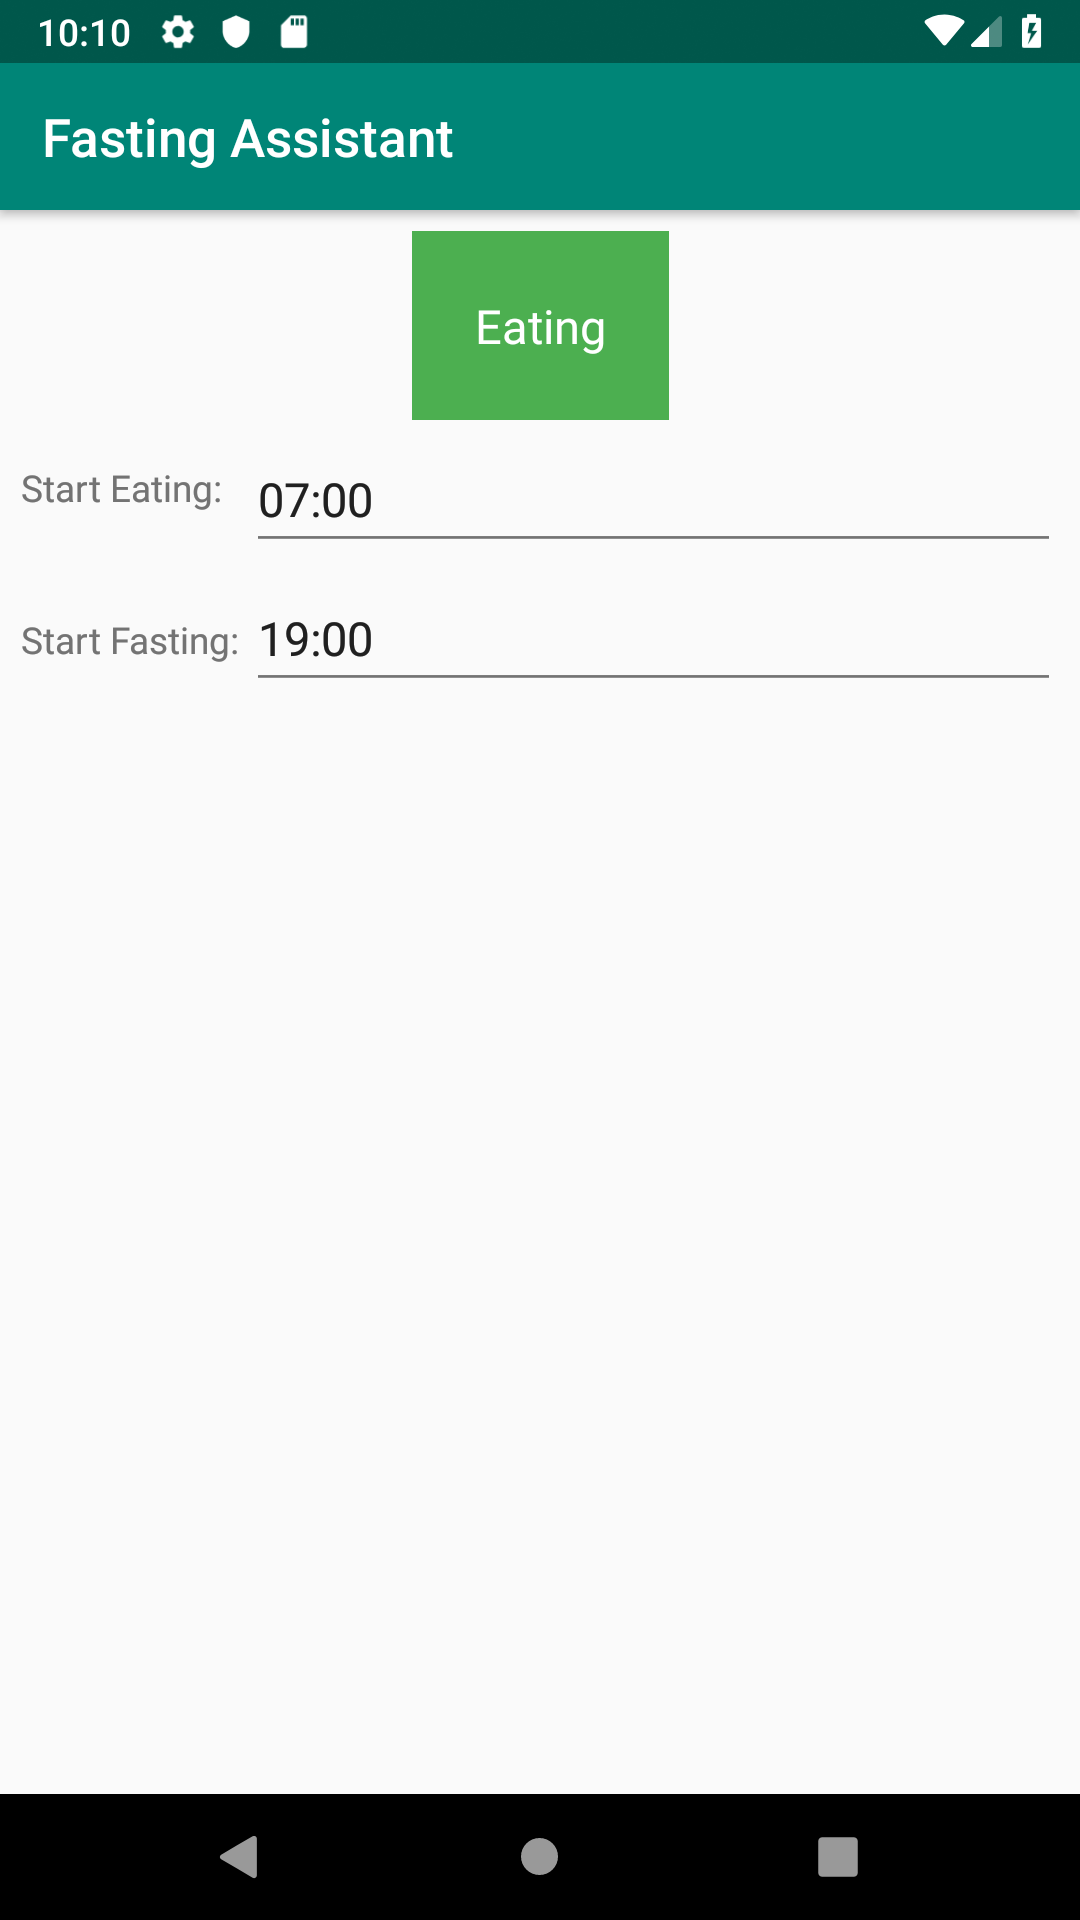
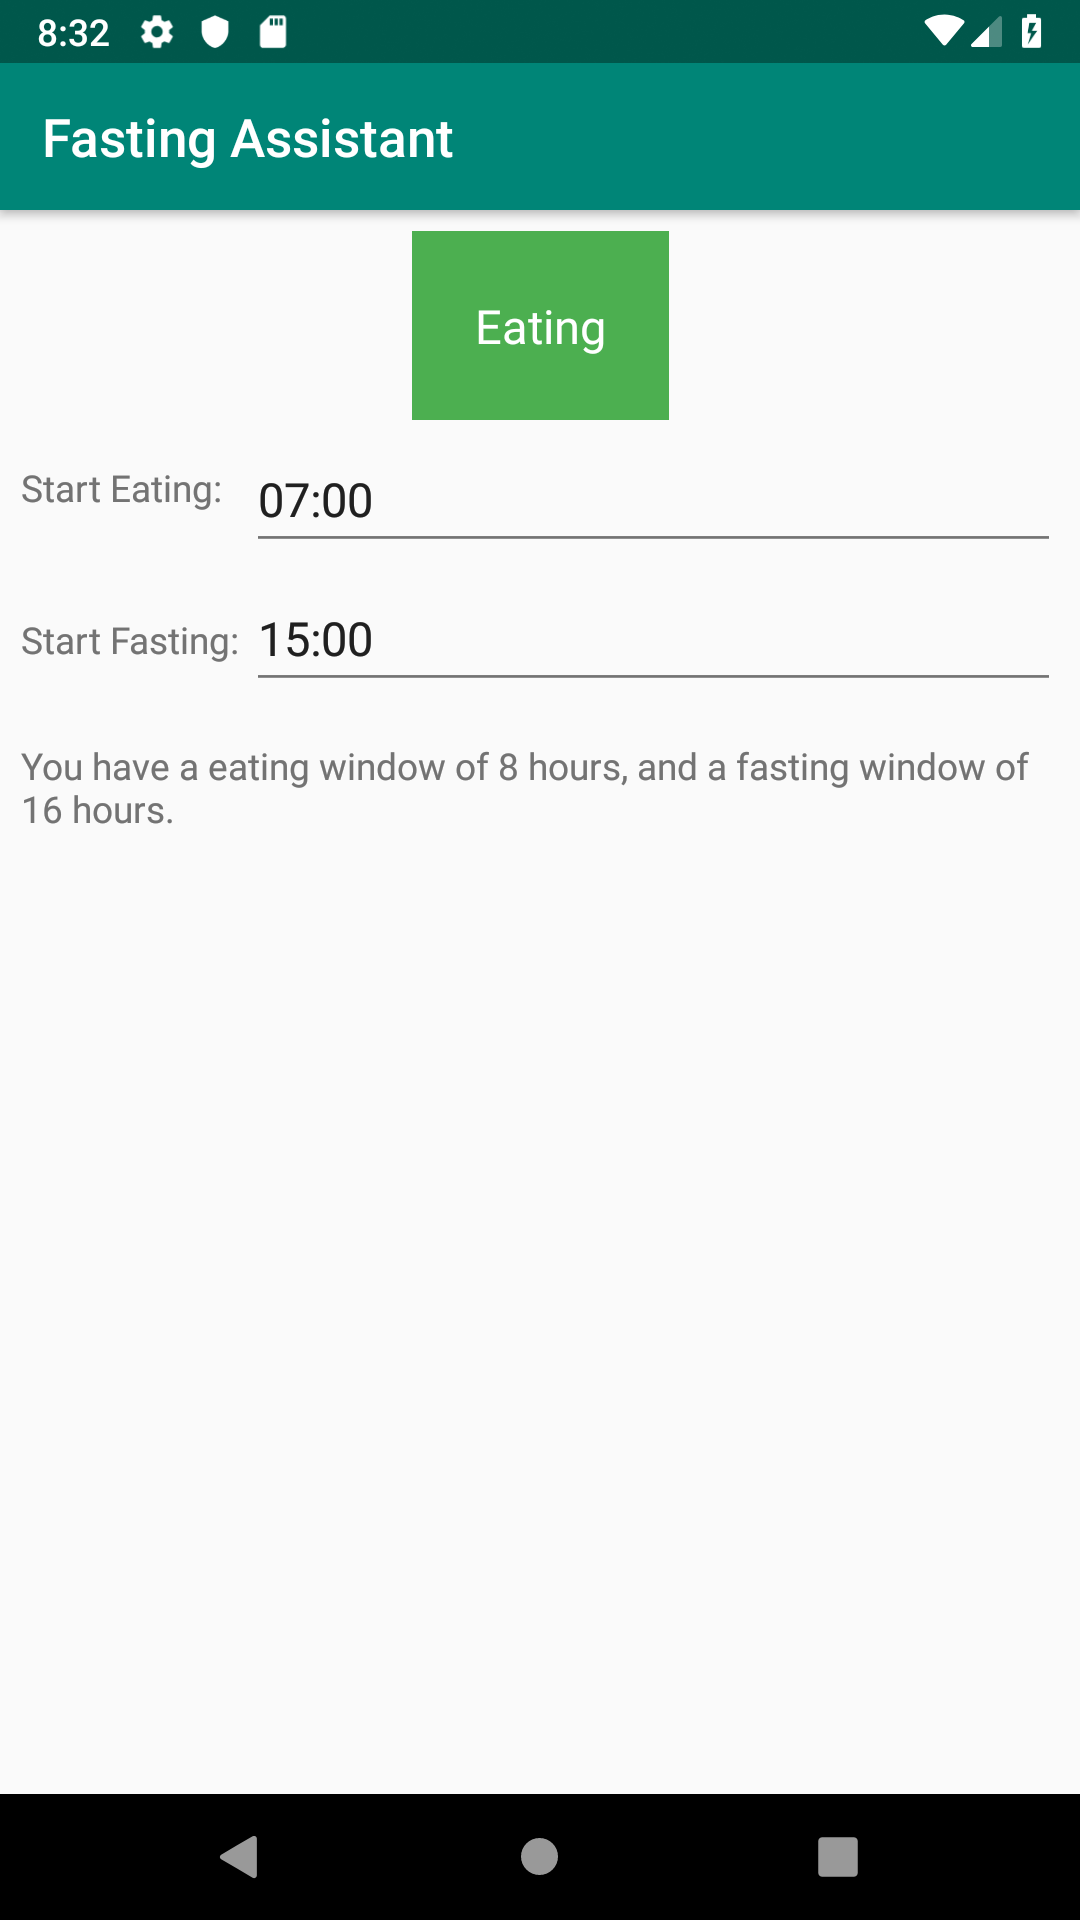
Added duration listing to the app

Changed region(s): [[0.0306, 0.375, 0.9472, 0.4375], [0.0306, 0.0, 0.3056, 0.0312], [0.2444, 0.3125, 0.3056, 0.3438]]

diff --git a/app/src/main/java/com/caughtknee/fastingassistant/MainActivity.kt b/app/src/main/java/com/caughtknee/fastingassistant/MainActivity.kt
@@ -25,6 +25,7 @@ class MainActivity : AppCompatActivity(), View.OnClickListener {
     private lateinit var editTextTimeStart: EditText
     private lateinit var editTextTimeEnd: EditText
     private lateinit var textViewStatus: TextView
+    private lateinit var textViewDuration: TextView
     private lateinit var layoutStatus: ConstraintLayout
     private lateinit var adView : AdView
     private lateinit var sharedPreferences: SharedPreferences
@@ -39,6 +40,7 @@ class MainActivity : AppCompatActivity(), View.OnClickListener {
         adView.loadAd(adRequest)
 
         textViewStatus = findViewById(R.id.textViewStatus)
+        textViewDuration = findViewById(R.id.textViewDuration)
         layoutStatus = findViewById(R.id.layoutStatus)
         editTextTimeStart = findViewById(R.id.editTextTimeStart)
         editTextTimeEnd = findViewById(R.id.editTextTimeEnd)
@@ -79,6 +81,7 @@ class MainActivity : AppCompatActivity(), View.OnClickListener {
     }
 
     private fun setStatus() {
+        // Set status window
         val hourStart = sharedPreferences.getInt(getString(R.string.saved_time_picker_start_hour), 7)
         val minuteStart = sharedPreferences.getInt(getString(R.string.saved_time_picker_start_minute), 0)
         val hourEnd = sharedPreferences.getInt(getString(R.string.saved_time_picker_end_hour), 19)
@@ -86,6 +89,13 @@ class MainActivity : AppCompatActivity(), View.OnClickListener {
         val eatingAllowed = canEat(LocalTime.now(), hourStart, minuteStart, hourEnd, minuteEnd)
         textViewStatus.setText(if (eatingAllowed) R.string.status_eating else R.string.status_fasting)
         layoutStatus.setBackgroundColor(ResourcesCompat.getColor(resources, if (eatingAllowed) R.color.colourEating else R.color.colourFasting, null))
+
+        // Set duration
+        val eatingDuration = duration(hourStart, minuteStart, hourEnd, minuteEnd)
+        val fastingDuration = 24 * 60 - eatingDuration
+        val eatingDurationString = durationString(this, eatingDuration)
+        val fastingDurationString = durationString(this, fastingDuration)
+        textViewDuration.setText(getString(R.string.duration, eatingDurationString, fastingDurationString), TextView.BufferType.NORMAL)
     }
 
     private fun onTimeSet(view: EditText, hourOfDay: Int, minute: Int) {

diff --git a/app/src/main/java/com/caughtknee/fastingassistant/Common.kt b/app/src/main/java/com/caughtknee/fastingassistant/Common.kt
@@ -1,5 +1,6 @@
 package com.caughtknee.fastingassistant
 
+import android.content.Context
 import org.joda.time.LocalTime
 import org.joda.time.Minutes
 import kotlin.math.min
@@ -8,6 +9,23 @@ fun timeFormat(hours: Int, minutes: Int): String {
     val h = hours.toString().padStart(2, '0')
     val m = minutes.toString().padStart(2, '0')
     return "$h:$m"
+}
+
+fun duration(hourStart: Int, minuteStart: Int, hourEnd: Int, minuteEnd: Int): Int {
+    val timeStart = LocalTime(hourStart, minuteStart)
+    val timeEnd = LocalTime(hourEnd, minuteEnd)
+    return if (timeStart.isBeforeOrEquals(timeEnd))
+        Minutes.minutesBetween(timeStart, timeEnd).minutes
+    else
+        (24 * 60) - Minutes.minutesBetween(timeEnd, timeStart).minutes
+}
+
+fun durationString(context: Context, duration: Int): String {
+    return when {
+        duration < 60 -> context.getString(R.string.duration_minutes, duration.toString())
+        duration % 60 == 0 -> context.getString(R.string.duration_hours, (duration / 60).toString())
+        else -> context.getString(R.string.duration_hours_minutes, (duration / 60).toString(), (duration % 60).toString())
+    }
 }
 
 fun timeLeftForCurrentStatus(timeCurrent: LocalTime, hourStart: Int, minuteStart: Int, hourEnd: Int, minuteEnd: Int): String {
@@ -33,3 +51,4 @@ fun canEat(timeCurrent: LocalTime, hourStart: Int, minuteStart: Int, hourEnd: In
 }
 
 fun LocalTime.isAfterOrEquals(time: LocalTime) = this.isAfter(time) || this.isEqual(time)
+fun LocalTime.isBeforeOrEquals(time: LocalTime) = this.isBefore(time) || this.isEqual(time)
